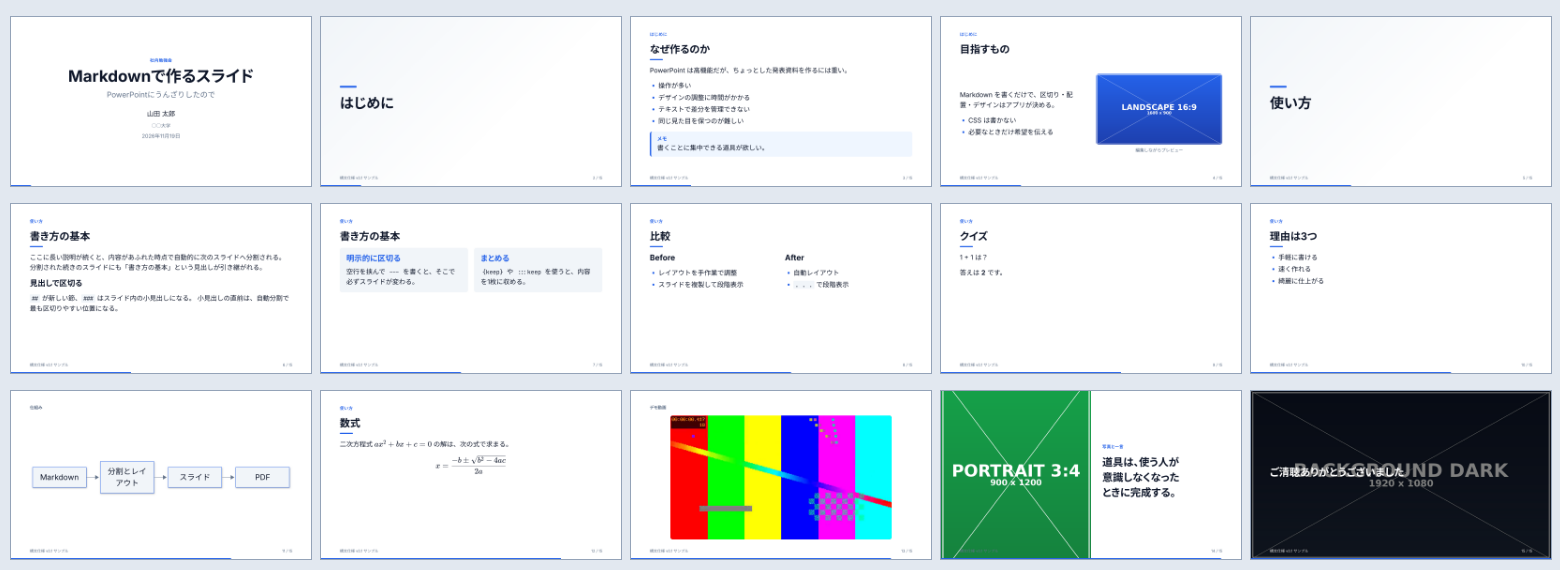
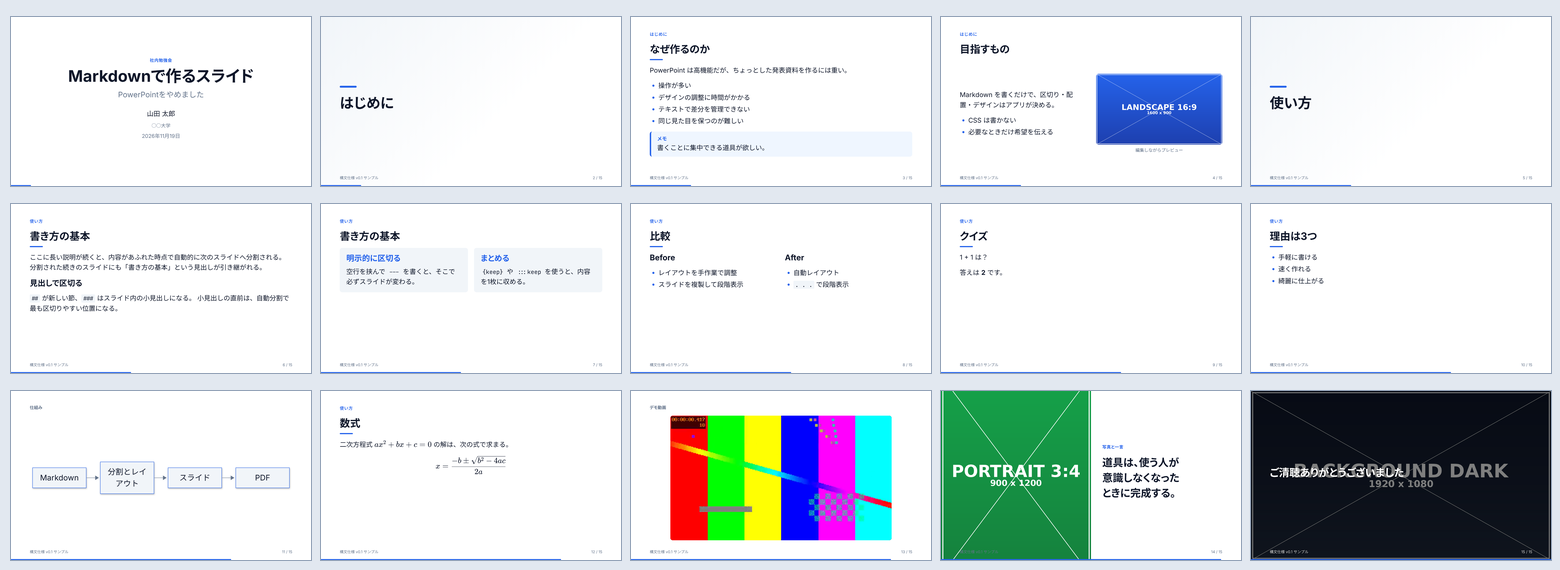
docs: 文書と実装の食い違いを直し、構文の定義と構文仕様の表をテストで突き合わせる
- 構文仕様・設計プラン・動く構成図の仕様・fixtures/README を今の実装に合わせる
  （まだ作っていないものは「まだ」「予定」と書き、設計プラン §16 にまとめる）
- 設計プランに成功基準の達成状況（§14.1）と M6 を足し、仕様書 §6 から参照する
- 構文仕様 §1.1 の見出しを「キーの一覧」にし、構文ヒントのリンク先も変える
- syntax/docs.test.ts：構文の定義と、構文仕様・動く構成図の仕様の表が一致するか、
  md の中の見出しへのリンクと docAnchor が切れていないかを確かめる
- 「うんざりしたので」を「やめました」などに和らげる（作者の指定）。README の画像も撮り直す

Closes #130

Claude-Session: https://claude.ai/code/session_011HghAuKk8MyUc3aoQrMzyN

diff --git a/packages/core/src/syntax/docs.test.ts b/packages/core/src/syntax/docs.test.ts
@@ -1,0 +1,197 @@
+import { existsSync, readdirSync, readFileSync } from 'node:fs';
+import { dirname, join, resolve } from 'node:path';
+import { fileURLToPath } from 'node:url';
+import { describe, expect, it } from 'vitest';
+import { ARCH_KEYWORDS, ARCH_NODE_KINDS } from '../arch/parse.js';
+import { slugify } from '../slug.js';
+import {
+  ATTRIBUTE_KEYS,
+  CONTAINERS,
+  CONTAINER_NAMES,
+  DIRECTIVES,
+  DIRECTIVE_NAMES,
+  LAYOUTS,
+  type AttrKey,
+  type AttrPlace,
+} from './elements.js';
+import { FRONTMATTER_KEYS, FRONTMATTER_KEY_NAMES } from './frontmatter-keys.js';
+
+/**
+ * 構文の定義（elements.ts・frontmatter-keys.ts・arch/parse.ts）と、
+ * 構文仕様（docs/syntax.md）・動く構成図の仕様（docs/arch-diagram.md）の表が一致するか（#130）。
+ * 構文を足したのに文書を直し忘れる・見出しを変えてリンクが切れる、を防ぐ。
+ */
+
+const root = fileURLToPath(new URL('../../../../', import.meta.url));
+const read = (path: string) => readFileSync(join(root, path), 'utf8');
+const syntax = read('docs/syntax.md');
+const arch = read('docs/arch-diagram.md');
+
+/** コードブロックの中の行を空にする（見出しや表を探すため） */
+function outsideFences(markdown: string): string[] {
+  let fence: string | undefined;
+  return markdown.split('\n').map((line) => {
+    const open = /^\s*(`{3,}|~{3,})/.exec(line)?.[1];
+    if (fence) {
+      if (open && open[0] === fence[0] && open.length >= fence.length) fence = undefined;
+      return '';
+    }
+    if (open) {
+      fence = open;
+      return '';
+    }
+    return line;
+  });
+}
+
+/** 見出し（`### 1.1 …` なら「1.1 」）の直後にある表の行。見出し行と区切りの行は除く */
+function tableAfter(markdown: string, heading: string): string[][] {
+  const lines = outsideFences(markdown);
+  const start = lines.findIndex((line) => /^#{2,4} /.test(line) && line.includes(` ${heading}`));
+  expect(start, `見出し「${heading}」`).toBeGreaterThanOrEqual(0);
+  const first = lines.findIndex((line, i) => i > start && line.startsWith('|'));
+  const rows: string[][] = [];
+  for (let i = first + 2; lines[i]?.startsWith('|'); i++) {
+    rows.push(
+      lines[i]!.slice(1, -1)
+        .split(/(?<!\\)\|/)
+        .map((cell) => cell.trim()),
+    );
+  }
+  return rows;
+}
+
+/** セルの中の `…` */
+const ticks = (cell: string) => Array.from(cell.matchAll(/`([^`]+)`/g), (m) => m[1]!);
+const nameOf = (row: string[]) => ticks(row[0]!)[0];
+
+/** `key` や `key=value` の形の `…` から、キーごとに書かれた値を集める */
+function keysOf(cells: string[]): Map<string, Set<string>> {
+  const keys = new Map<string, Set<string>>();
+  for (const token of cells.flatMap(ticks)) {
+    const [name, value] = token.split('=');
+    const values = keys.get(name!) ?? new Set<string>();
+    if (value !== undefined) values.add(value);
+    keys.set(name!, values);
+  }
+  return keys;
+}
+
+const enumValues = (key: AttrKey): readonly string[] =>
+  key.value.type === 'enum' || key.value.type === 'flag-or-enum' ? key.value.values : [];
+const keysFor = (...places: AttrPlace[]) =>
+  ATTRIBUTE_KEYS.filter((key) => key.places.some((place) => places.includes(place)));
+
+describe('構文仕様の表と構文の定義', () => {
+  it('§1.1 フロントマターのキー：名前・順番・値の候補・既定が同じ', () => {
+    const rows = tableAfter(syntax, '1.1 ');
+    expect(rows.map(nameOf)).toEqual(FRONTMATTER_KEY_NAMES);
+    for (const key of FRONTMATTER_KEYS) {
+      const [, value, fallback] = rows.find((row) => nameOf(row) === key.name)!;
+      if (key.value.type === 'enum') {
+        expect(ticks(value!), key.name).toEqual(key.value.values.map(String));
+      }
+      if (key.default !== undefined) {
+        expect(ticks(fallback!), key.name).toEqual([String(key.default)]);
+      }
+    }
+  });
+
+  it('§3.3 スライドに付けるキー：名前と値の候補が同じ', () => {
+    const rows = tableAfter(syntax, '3.3 ').filter((row) => !row[0]!.startsWith('`.'));
+    const slideKeys = keysFor('slide');
+    expect(rows.map(nameOf)).toEqual(slideKeys.map((key) => key.name));
+    for (const key of slideKeys) {
+      const [, value] = rows.find((row) => nameOf(row) === key.name)!;
+      if (enumValues(key).length > 0) expect(ticks(value!), key.name).toEqual(enumValues(key));
+    }
+  });
+
+  it('§3.4 要素に付けるキー：名前と値の候補が同じ', () => {
+    const documented = keysOf(tableAfter(syntax, '3.4 ').map((row) => row[0]!));
+    const elementKeys = keysFor('block', 'media');
+    expect([...documented.keys()]).toEqual(elementKeys.map((key) => key.name));
+    for (const key of elementKeys) {
+      if (enumValues(key).length > 0) {
+        expect([...documented.get(key.name)!].sort(), key.name).toEqual(
+          [...enumValues(key)].sort(),
+        );
+      }
+    }
+  });
+
+  it('§3.5 レイアウトと §4 コンテナ：名前が同じ', () => {
+    expect(tableAfter(syntax, '3.5 ').map(nameOf)).toEqual([...LAYOUTS]);
+    expect(tableAfter(syntax, '4. ').map((row) => nameOf(row)!.replace(/^:::/, ''))).toEqual(
+      CONTAINER_NAMES,
+    );
+  });
+
+  it('§11 指示は ::maketitle だけ', () => {
+    expect(DIRECTIVE_NAMES).toEqual(['maketitle']);
+    expect(syntax).toContain('今は `::maketitle` だけを定義している');
+  });
+
+  it('動く構成図：§5.2 の属性・§3.1 のノードの種類・キーワードが同じ', () => {
+    const rows = tableAfter(arch, '5.2 ');
+    const archKeys = keysFor('arch');
+    expect(rows.map(nameOf).sort()).toEqual(archKeys.map((key) => key.name).sort());
+    for (const key of archKeys) {
+      const [, value] = rows.find((row) => nameOf(row) === key.name)!;
+      if (enumValues(key).length > 0) expect(ticks(value!), key.name).toEqual(enumValues(key));
+    }
+    expect(tableAfter(arch, '3.1 ').map(nameOf)).toEqual([...ARCH_NODE_KINDS]);
+    for (const keyword of ARCH_KEYWORDS) expect(arch).toContain(`\`${keyword.name}`);
+  });
+});
+
+/** 文書の見出しのアンカー（GitHub と同じ。同じ見出しは2つ目から -1・-2 を付ける） */
+function anchorsOf(markdown: string): Set<string> {
+  const anchors = new Set<string>();
+  for (const line of outsideFences(markdown)) {
+    const heading = /^#{1,6}\s+(.+?)\s*#*$/.exec(line)?.[1];
+    if (!heading) continue;
+    const base = slugify(heading.replace(/\[([^\]]*)\]\([^)]*\)/g, '$1'));
+    let anchor = base;
+    for (let n = 1; anchors.has(anchor); n++) anchor = `${base}-${n}`;
+    anchors.add(anchor);
+  }
+  return anchors;
+}
+
+describe('文書のリンク', () => {
+  it('構文の定義の docAnchor（エディタの構文ヒントのリンク）は、文書の見出しを指している', () => {
+    const all = [...FRONTMATTER_KEYS, ...ATTRIBUTE_KEYS, ...CONTAINERS, ...DIRECTIVES];
+    for (const { name, docAnchor } of all) {
+      const [file, hash] = docAnchor.split('#');
+      expect(anchorsOf(read(`docs/${file}`)), `${name}：${docAnchor}`).toContain(hash);
+    }
+  });
+
+  it('md から md の見出しへのリンクが切れていない', () => {
+    const files = [
+      'README.md',
+      'CONTRIBUTING.md',
+      'fixtures/README.md',
+      ...readdirSync(join(root, 'docs'))
+        .filter((name) => name.endsWith('.md'))
+        .map((name) => `docs/${name}`),
+    ];
+    const broken: string[] = [];
+    for (const file of files) {
+      const text = outsideFences(read(file))
+        .join('\n')
+        .replace(/`[^`\n]*`/g, '');
+      for (const [, target, hash] of text.matchAll(/\]\(([^)#\s]*)#([^)\s]+)\)/g)) {
+        if (/^[a-z]+:/i.test(target!)) continue;
+        const path = target ? resolve(dirname(join(root, file)), target) : join(root, file);
+        if (!path.endsWith('.md') || !existsSync(path)) continue;
+        const anchor = decodeURIComponent(hash!);
+        if (!anchorsOf(readFileSync(path, 'utf8')).has(anchor)) {
+          broken.push(`${file} → ${target}#${anchor}`);
+        }
+      }
+    }
+    expect(broken).toEqual([]);
+  });
+});

diff --git a/packages/core/src/syntax/frontmatter-keys.ts b/packages/core/src/syntax/frontmatter-keys.ts
@@ -30,7 +30,7 @@ export interface FrontmatterKey {
   docAnchor: string;
 }
 
-const MVP = 'syntax.md#11-最初に用意するキーmvp';
+const KEY_LIST = 'syntax.md#11-キーの一覧';
 
 export const FRONTMATTER_KEYS: readonly FrontmatterKey[] = [
   {
@@ -38,64 +38,70 @@ export const FRONTMATTER_KEYS: readonly FrontmatterKey[] = [
     summary: 'タイトルスライドとブラウザのタイトルに使う',
     value: { type: 'string' },
     titleInfo: true,
-    docAnchor: MVP,
+    docAnchor: KEY_LIST,
   },
-  { name: 'subtitle', summary: '副題', value: { type: 'string' }, titleInfo: true, docAnchor: MVP },
+  {
+    name: 'subtitle',
+    summary: '副題',
+    value: { type: 'string' },
+    titleInfo: true,
+    docAnchor: KEY_LIST,
+  },
   {
     name: 'author',
     summary: '著者。所属が違う場合は { name, affiliation } の配列で書く',
     value: { type: 'authors' },
     titleInfo: true,
-    docAnchor: MVP,
+    docAnchor: KEY_LIST,
   },
   {
     name: 'affiliation',
     summary: '全員に共通の所属',
     value: { type: 'string' },
     titleInfo: true,
-    docAnchor: MVP,
+    docAnchor: KEY_LIST,
   },
   {
     name: 'date',
     summary: '日付。today は発表日に置き換わる。日付以外の文字列はそのまま表示する',
     value: { type: 'date' },
     titleInfo: true,
-    docAnchor: MVP,
+    docAnchor: KEY_LIST,
   },
   {
     name: 'event',
     summary: '発表の場（勉強会名・学会名など）',
     value: { type: 'string' },
     titleInfo: true,
-    docAnchor: MVP,
+    docAnchor: KEY_LIST,
   },
   {
     name: 'logo',
     summary: 'タイトルスライドに表示するロゴ',
     value: { type: 'path' },
     titleInfo: true,
-    docAnchor: MVP,
+    docAnchor: KEY_LIST,
   },
   {
     name: 'theme',
     summary: 'テーマ',
     value: { type: 'enum', values: THEMES },
     default: 'clean',
-    docAnchor: MVP,
+    docAnchor: KEY_LIST,
   },
   {
     name: 'aspect',
     summary: '縦横比（1280×720 / 960×720 / 1280×800）',
     value: { type: 'enum', values: ['16:9', '4:3', '16:10'] },
     default: '16:9',
-    docAnchor: MVP,
+    docAnchor: KEY_LIST,
   },
   {
     name: 'lang',
     summary: '言語。改行規則とフォントの選択に使う',
     value: { type: 'string' },
     default: 'ja',
-    docAnchor: MVP,
+    docAnchor: KEY_LIST,
   },
   {
     name: 'slideLevel',
@@ -109,7 +115,7 @@ export const FRONTMATTER_KEYS: readonly FrontmatterKey[] = [
     summary: 'auto は自動で分割、manual は --- と見出しでだけ区切る',
     value: { type: 'enum', values: ['auto', 'manual'] },
     default: 'auto',
-    docAnchor: MVP,
+    docAnchor: KEY_LIST,
   },
   {
     name: 'titleSlide',
@@ -123,28 +129,33 @@ export const FRONTMATTER_KEYS: readonly FrontmatterKey[] = [
     summary: 'ページ番号を表示するか',
     value: { type: 'boolean' },
     default: true,
-    docAnchor: MVP,
+    docAnchor: KEY_LIST,
   },
   {
     name: 'transition',
     summary: 'スライドの切り替え効果（none / fade / slide）',
     value: { type: 'enum', values: ['none', 'fade', 'slide'] },
     default: 'none',
-    docAnchor: MVP,
+    docAnchor: KEY_LIST,
   },
   {
     name: 'footer',
     summary: '全スライド共通のフッター',
     value: { type: 'string' },
-    docAnchor: MVP,
+    docAnchor: KEY_LIST,
   },
   {
     name: 'accent',
     summary: 'アクセントカラーだけを差し替える',
     value: { type: 'color' },
-    docAnchor: MVP,
+    docAnchor: KEY_LIST,
   },
-  { name: 'css', summary: 'カスタムCSS（上級者向け）', value: { type: 'path' }, docAnchor: MVP },
+  {
+    name: 'css',
+    summary: 'カスタムCSS（上級者向け）',
+    value: { type: 'path' },
+    docAnchor: KEY_LIST,
+  },
   {
     name: 'pdf',
     summary: 'PDF の書き出し（steps: each でステップごとのページにする）',

diff --git a/docs/arch-diagram.md b/docs/arch-diagram.md
@@ -1,4 +1,4 @@
-# 動く構成図 仕様 v0.1（ドラフト）
+# 動く構成図 仕様 v0.1
 
 > システムの構成図をテキストで書き、データの流れをステップごとにスライドの中で再生する機能。
 > [DynamicArchitectViewer](https://zenn.dev/junue/articles/64a4b7092826bf)（以下 DAV）の考え方を参考にした、この製品独自の形式。
@@ -178,6 +178,7 @@ scenario <名前>
 | `focus` | `auto` / `none` | `auto` | カメラ（§6.2）を使うか |
 | `step` | — | — | 図そのものを、段階表示で後から出す |
 | `width` | `60%` など | — | 図の幅を固定する |
+| `caption` | 文字列 | — | 図のキャプション |
 
 ### 5.3 段階表示との関係
 
@@ -214,7 +215,7 @@ scenario <名前>
 
 ### 6.2 カメラ
 
-図をスライドの領域に収めたとき、文字が約14px より小さくなる場合だけ、各ステップに関係するノードを囲む範囲へ寄る。寄っている間は、右下に全体図（ミニマップ）を表示する。文字が十分に読める大きさなら、カメラは動かさない。
+図をスライドの領域に収めたとき、文字が約14px より小さくなる場合だけ、各ステップに関係するノードを囲む範囲へ寄る。寄っている間は、図の右下の外に全体図（ミニマップ）を表示する。文字が十分に読める大きさなら、カメラは動かさない。
 
 ### 6.3 色
 
@@ -233,8 +234,8 @@ scenario <名前>
 - **パーサ**：行単位の自作パーサ。インデントで入れ子を読む。エディタの警告のため、すべての要素に行番号を持たせる。
 - **配置**：[ELK](https://eclipse.dev/elk/)（elkjs）の layered アルゴリズムを使う。入れ子のグループの配置に強い。配置はシナリオに依存しない（ステップでノードが動かない）ので、構成の部分のハッシュでキャッシュする。
 - **描画**：SVG。プレビューとビルドのときに配置を計算して座標を SVG に書き込むので、書き出した HTML には配置エンジンを含めない。
-- **再生**：パケットは CSS の `offset-path` と Web Animations API で経路に沿って動かす。runtime に足すコードは 5KB（gzip）程度を目標にする。
-- **埋め込みプラグイン API**（[設計プラン §7.1](./design.md#71-プラグインインターフェース)）の最初の実装にする：`steps()` はシナリオのステップ数、`goto(step)` でステップの状態を表示する。
+- **再生**：パケットは CSS の `offset-path` と Web Animations API で経路に沿って動かす。runtime に足すコードは 5KB（gzip）程度を目標にする（実際はカメラを含めて約 6KB。構成図があるときだけ入れる）。
+- **埋め込みの内部ステップ**（[設計プラン §7.1](./design.md#71-プラグインインターフェース)）の最初の図にする：シナリオのステップ数を `data-mds-substeps` に書き、`window.mdsEmbeds.arch` の `show`・`play` でステップの状態を表示する（#108）。
 - **警告**：未定義のノード、構成にない経路、使われていないノード、存在しないシナリオ、インデントの崩れ、1つのスライドに2つ以上の図。
 
 **配置と描画の実装（#107）**：

diff --git a/fixtures/README.md b/fixtures/README.md
@@ -194,7 +194,7 @@
 | `::toc` | 「未定義の指示」と警告し、文字のまま表示 |
 | `***` と `___` | 水平線。スライドは区切らない |
 | 連続した `---` | 空のスライドを作らない。この節は2枚 |
-| 1枚に収まらない段落 | 句点の直後で分割し、2枚にする |
+| 1枚に収まらない段落 | clean では1枚に収まる（10行）。収まらない段落を文の切れ目で分ける処理はまだないので、収まらなければ最大 60% まで縮めて警告する（設計プラン §4.2） |
 | 深い入れ子のリスト | そのまま表示する |
 | H4 の飛び | スライド内の小見出しとして扱う。警告しない |
 | 背景が2つ | 「背景は1つだけ使う」と警告し、最初の画像を使う |

diff --git a/examples/demo.md b/examples/demo.md
@@ -1,6 +1,6 @@
 ---
 title: Markdownで作るスライド
-subtitle: PowerPointにうんざりしたので
+subtitle: PowerPointをやめました
 author: 山田 太郎
 affiliation: ○○大学
 date: today
